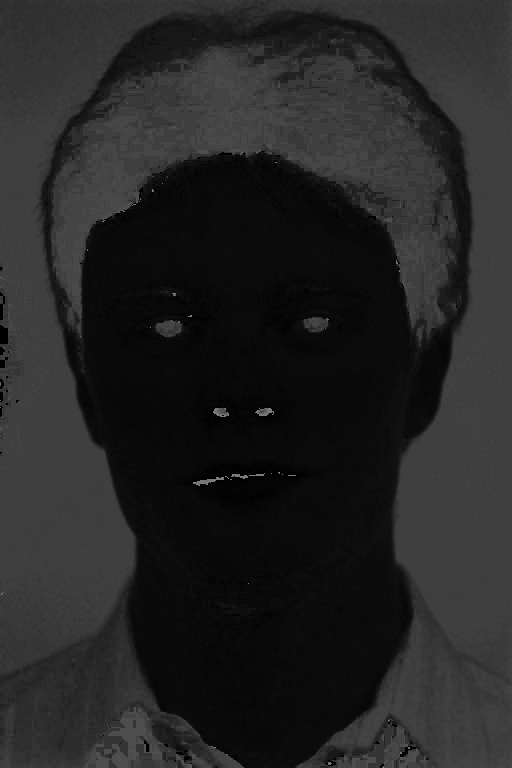
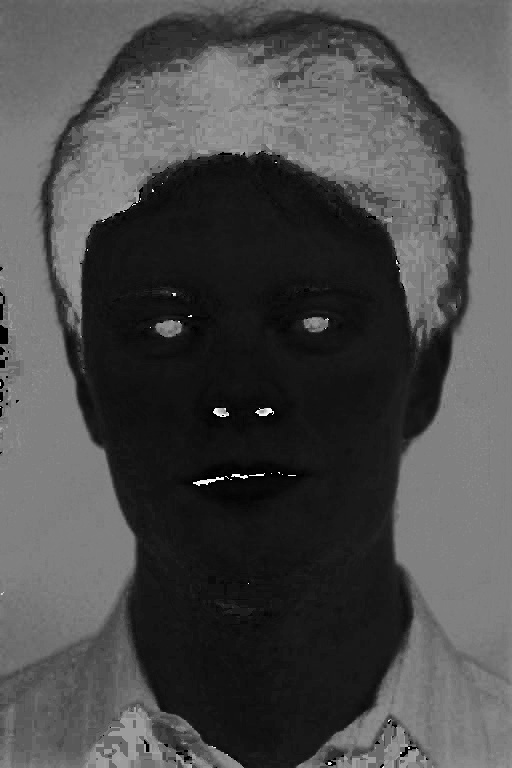
Hue mapping corrected

diff --git a/Task2.py b/Task2.py
@@ -32,3 +32,15 @@ for f in orig_filenames:
 
 for f in mask_filenames:
     mask_images.append(cv2.imread(f))
+
+def part1(mask_images):
+    binary_skin_pixel_masks = []
+    for mask_img in mask_images:
+        mask_img[mask_img > 0] = 255
+        binary_skin_pixel_masks.append(mask_img)
+    return binary_skin_pixel_masks
+
+
+binary_skin_pixel_masks = part1(mask_images)
+
+

diff --git a/Task1.py b/Task1.py
@@ -61,7 +61,7 @@ def display_histogram(hist, bin=256, xlabel='', fname='', disp=False):
 
 
 def map_hue(img, max_hue_val=179):
-    return (img * (max_hue_val / 255)).astype(int)
+    return (img * (255 / max_hue_val)).astype(int)
 
 # Part 1 of the Task 1, create single R, G, B channels from RGB images
 
